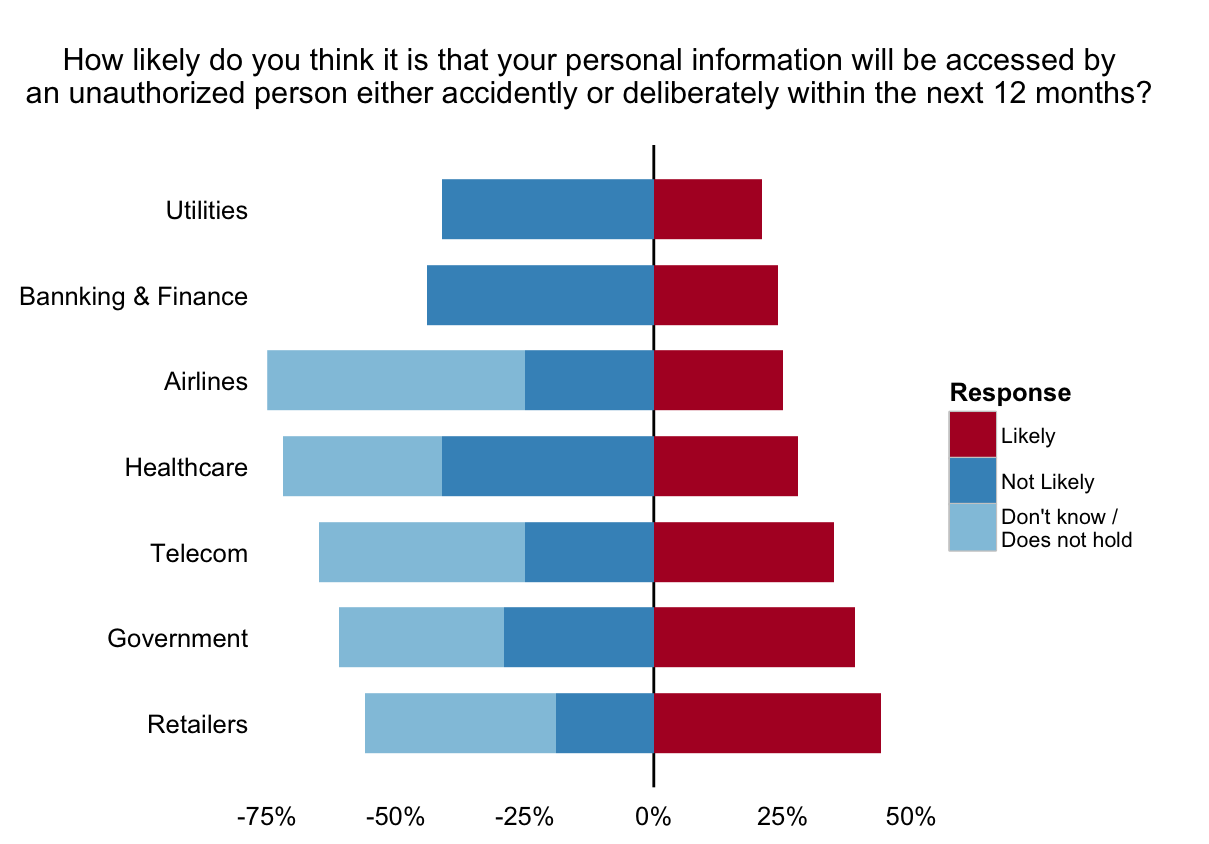
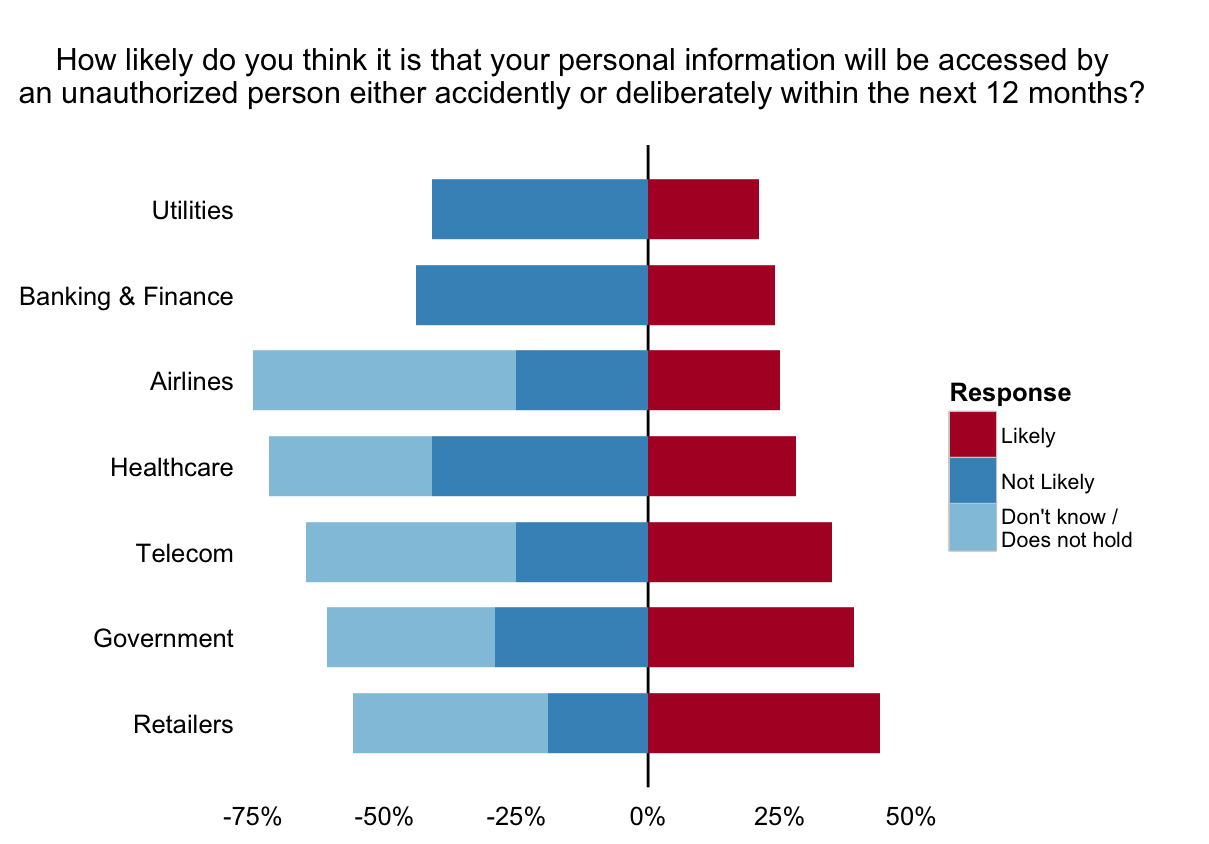
spelling

diff --git a/2015/drafts/makeover-fixing-a-survey-response-chart.md b/2015/drafts/makeover-fixing-a-survey-response-chart.md
@@ -38,7 +38,7 @@ We'll use `ggplot2` in R to re-design the chart and incorporate all the answer l
     Telecom,.35,.25,.40
     Healthcare,.28,.41,.31
     Airlines,.25,.25,.50
-    Bannking & Finance,.24,.44,.32
+    Banking & Finance,.24,.44,.32
     Utilities,.21,.41,.38", sep=",", header=TRUE, stringsAsFactors=FALSE)
    
 Next, we need to reshape that into something we can work with in ggplot, which is pretty straightforward with `tidyr`:
@@ -49,39 +49,39 @@ Next, we need to reshape that into something we can work with in ggplot, which i
 
 That takes the three response columns and collapses them into one (wide-to-long, as it were). So, it goes from:
 
-                Industry likely not_likely dont_know_or_hold
-    1          Retailers   0.44       0.19              0.37
-    2         Government   0.39       0.29              0.32
-    3            Telecom   0.35       0.25              0.40
-    4         Healthcare   0.28       0.41              0.31
-    5           Airlines   0.25       0.25              0.50
-    6 Bannking & Finance   0.24       0.44              0.32
-    7          Utilities   0.21       0.41              0.38
+               Industry likely not_likely dont_know_or_hold
+    1         Retailers   0.44       0.19              0.37
+    2        Government   0.39       0.29              0.32
+    3           Telecom   0.35       0.25              0.40
+    4        Healthcare   0.28       0.41              0.31
+    5          Airlines   0.25       0.25              0.50
+    6 Banking & Finance   0.24       0.44              0.32
+    7         Utilities   0.21       0.41              0.38
 
 to:
 
-                 Industry          Response percent
-    1           Retailers            likely    0.44
-    2          Government            likely    0.39
-    3             Telecom            likely    0.35
-    4          Healthcare            likely    0.28
-    5            Airlines            likely    0.25
-    6  Bannking & Finance            likely    0.24
-    7           Utilities            likely    0.21
-    8           Retailers        not_likely    0.19
-    9          Government        not_likely    0.29
-    10            Telecom        not_likely    0.25
-    11         Healthcare        not_likely    0.41
-    12           Airlines        not_likely    0.25
-    13 Bannking & Finance        not_likely    0.44
-    14          Utilities        not_likely    0.41
-    15          Retailers dont_know_or_hold    0.37
-    16         Government dont_know_or_hold    0.32
-    17            Telecom dont_know_or_hold    0.40
-    18         Healthcare dont_know_or_hold    0.31
-    19           Airlines dont_know_or_hold    0.50
-    20 Bannking & Finance dont_know_or_hold    0.32
-    21          Utilities dont_know_or_hold    0.38
+               Industry          Response percent
+    1          Retailers            likely    0.44
+    2         Government            likely    0.39
+    3            Telecom            likely    0.35
+    4         Healthcare            likely    0.28
+    5           Airlines            likely    0.25
+    6  Banking & Finance            likely    0.24
+    7          Utilities            likely    0.21
+    8          Retailers        not_likely    0.19
+    9         Government        not_likely    0.29
+    10           Telecom        not_likely    0.25
+    11        Healthcare        not_likely    0.41
+    12          Airlines        not_likely    0.25
+    13 Banking & Finance        not_likely    0.44
+    14         Utilities        not_likely    0.41
+    15         Retailers dont_know_or_hold    0.37
+    16        Government dont_know_or_hold    0.32
+    17           Telecom dont_know_or_hold    0.40
+    18        Healthcare dont_know_or_hold    0.31
+    19          Airlines dont_know_or_hold    0.50
+    20 Banking & Finance dont_know_or_hold    0.32
+    21         Utilities dont_know_or_hold    0.38
 
 The bar ordering in the original chart was good, so lets ensure ggplot will also order the Industries properly:
 
